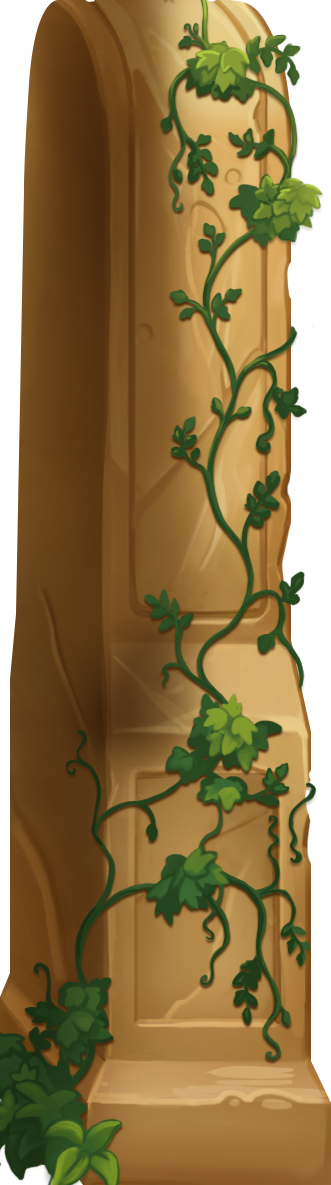
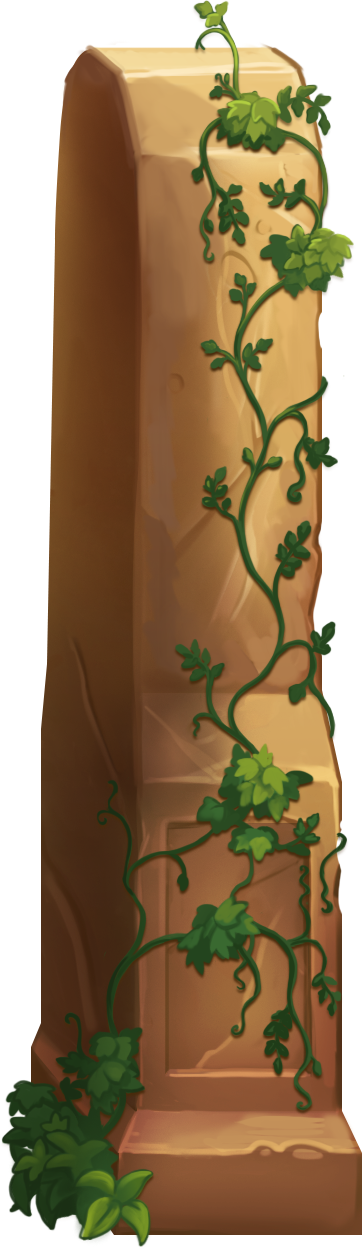
Adopt the new holder art and float the foreground foliage
Composite the Holders2 layers into the left and right bracket art (left
carries a leaf cluster, right a climbing vine) and retune the bracket size,
position, and tuck for the new 362x1249 canvas.

Replace the jungle background with Background2 split into two layers: the
scene minus the floated plants is baked into ruins-bg, and the floated
plants become ruins-fg, drawn in a foreground element in front of the drum.
Both use the same full-scene canvas and cover/center framing so the
foreground stays locked to the background at every viewport size.

Claude-Session: https://claude.ai/code/session_01Q6PLZY4FeeRpwUcSDqktu9

diff --git a/paulmartin.dev/src/machine/MachineShell.css b/paulmartin.dev/src/machine/MachineShell.css
@@ -14,25 +14,26 @@
   --apothem: calc(var(--face-h) * 0.688);
   /* Holder geometry. --holder-cap (in --face-h units, so the top tracks the drum
      at every aspect) is the distance from the drum's vertical centre up to the
-     dome's apex; it fixes where the holder art's top sits, matching the old
-     bracket top. --holder-inset tucks each bracket behind the drum's side edge.
-     The art (331x1185, aspect 331/1185) is intentionally oversized: height is
-     driven off the viewport so the bracket always runs past the bottom of the
-     screen (never floats), with the base flare left off-screen as a buffer. Width
-     follows the art's aspect, so the bracket is wider than the old CSS one - which
-     is fine; the height reaching the floor is the hard requirement. */
+     dome's apex. --holder-rise lifts the bracket so the dome apex, which sits ~39px
+     down inside the 362x1249 art canvas (the vine overhangs above and to the side
+     of the stone), lands at that point. --holder-inset tucks each bracket behind
+     the drum's side edge. The art is intentionally oversized: height is driven off
+     the viewport so the bracket always runs past the bottom of the screen (never
+     floats), with the base left off-screen as a buffer. Width follows the art's
+     aspect; the 362 numerator maps the canvas so the stone shaft shows at its
+     native width. */
   --holder-inset: calc(var(--face-h) * 0.175);
   --holder-cap: calc(var(--face-h) * 0.085);
-  --holder-rise: calc(var(--face-h) * 0.040);
+  --holder-rise: calc(var(--face-h) * 0.084);
   --holder-h: calc((50vh + var(--holder-cap)) * 2.296);
-  --holder-w: calc(var(--holder-h) * 331 / 1185 * 0.765);
+  --holder-w: calc(var(--holder-h) * 362 / 1185 * 0.765);
   position: relative;
   width: 100%;
   height: 100vh;
   overflow: hidden;
   /* The device stands in sunlit jungle ruins. */
   background-color: var(--m-crevice);
-  background-image: url('/machine/ruins-bg.jpeg');
+  background-image: url('/machine/ruins-bg.png');
   background-size: cover;
   background-position: center;
   /* Held hidden until the font and background are ready, then faded in whole (see
@@ -64,6 +65,24 @@
     rgba(20, 14, 6, 0) 70%,
     rgba(20, 14, 6, 0.32) 100%
   );
+}
+
+/* Foreground foliage: the PSD's "Floated" layer on the full scene canvas, drawn in
+   front of the drum (above the viewport at z-index 2) but under the scene's
+   lighting overlay (::after, z-index 6) so the same grading falls over it. It uses
+   the exact same box (inset:0 of .machine) and the same cover/center framing as the
+   background painted on .machine, so the two are sized and positioned by identical
+   maths and the plants never drift from the scene at any viewport size.
+   pointer-events:none so it never blocks a click on the device beneath it. */
+.machine__foreground {
+  position: absolute;
+  inset: 0;
+  z-index: 5;
+  pointer-events: none;
+  background-image: url('/machine/ruins-fg.png');
+  background-size: cover;
+  background-position: center;
+  background-repeat: no-repeat;
 }
 
 /* Two stone brackets that grip the drum's left and right edges and run down to

diff --git a/paulmartin.dev/src/machine/Machine.jsx b/paulmartin.dev/src/machine/Machine.jsx
@@ -34,7 +34,7 @@ const INTRO_HOLD_CAP_MS = 800
 
 // Decode the background up front so its first paint doesn't jank the opening
 // spin. Resolves (never rejects) once it is ready or immediately if it can't.
-const MACHINE_BG_URL = '/machine/ruins-bg.jpeg'
+const MACHINE_BG_URL = '/machine/ruins-bg.png'
 function decodeBackground() {
   if (typeof Image === 'undefined') return Promise.resolve()
   const img = new Image()
@@ -303,6 +303,11 @@ function MachineShell() {
             })}
           </div>
         </div>
+        {/* Foreground foliage (the PSD's "Floated" layer) painted in front of the
+            drum. Same full-scene canvas and cover/center framing as the background,
+            so the two stay locked together and the plants never drift from the
+            scene as the viewport resizes. */}
+        <div className="machine__foreground" aria-hidden="true" />
         <MuteToggle className="machine__mute" />
       </div>
     </MachineContext.Provider>
